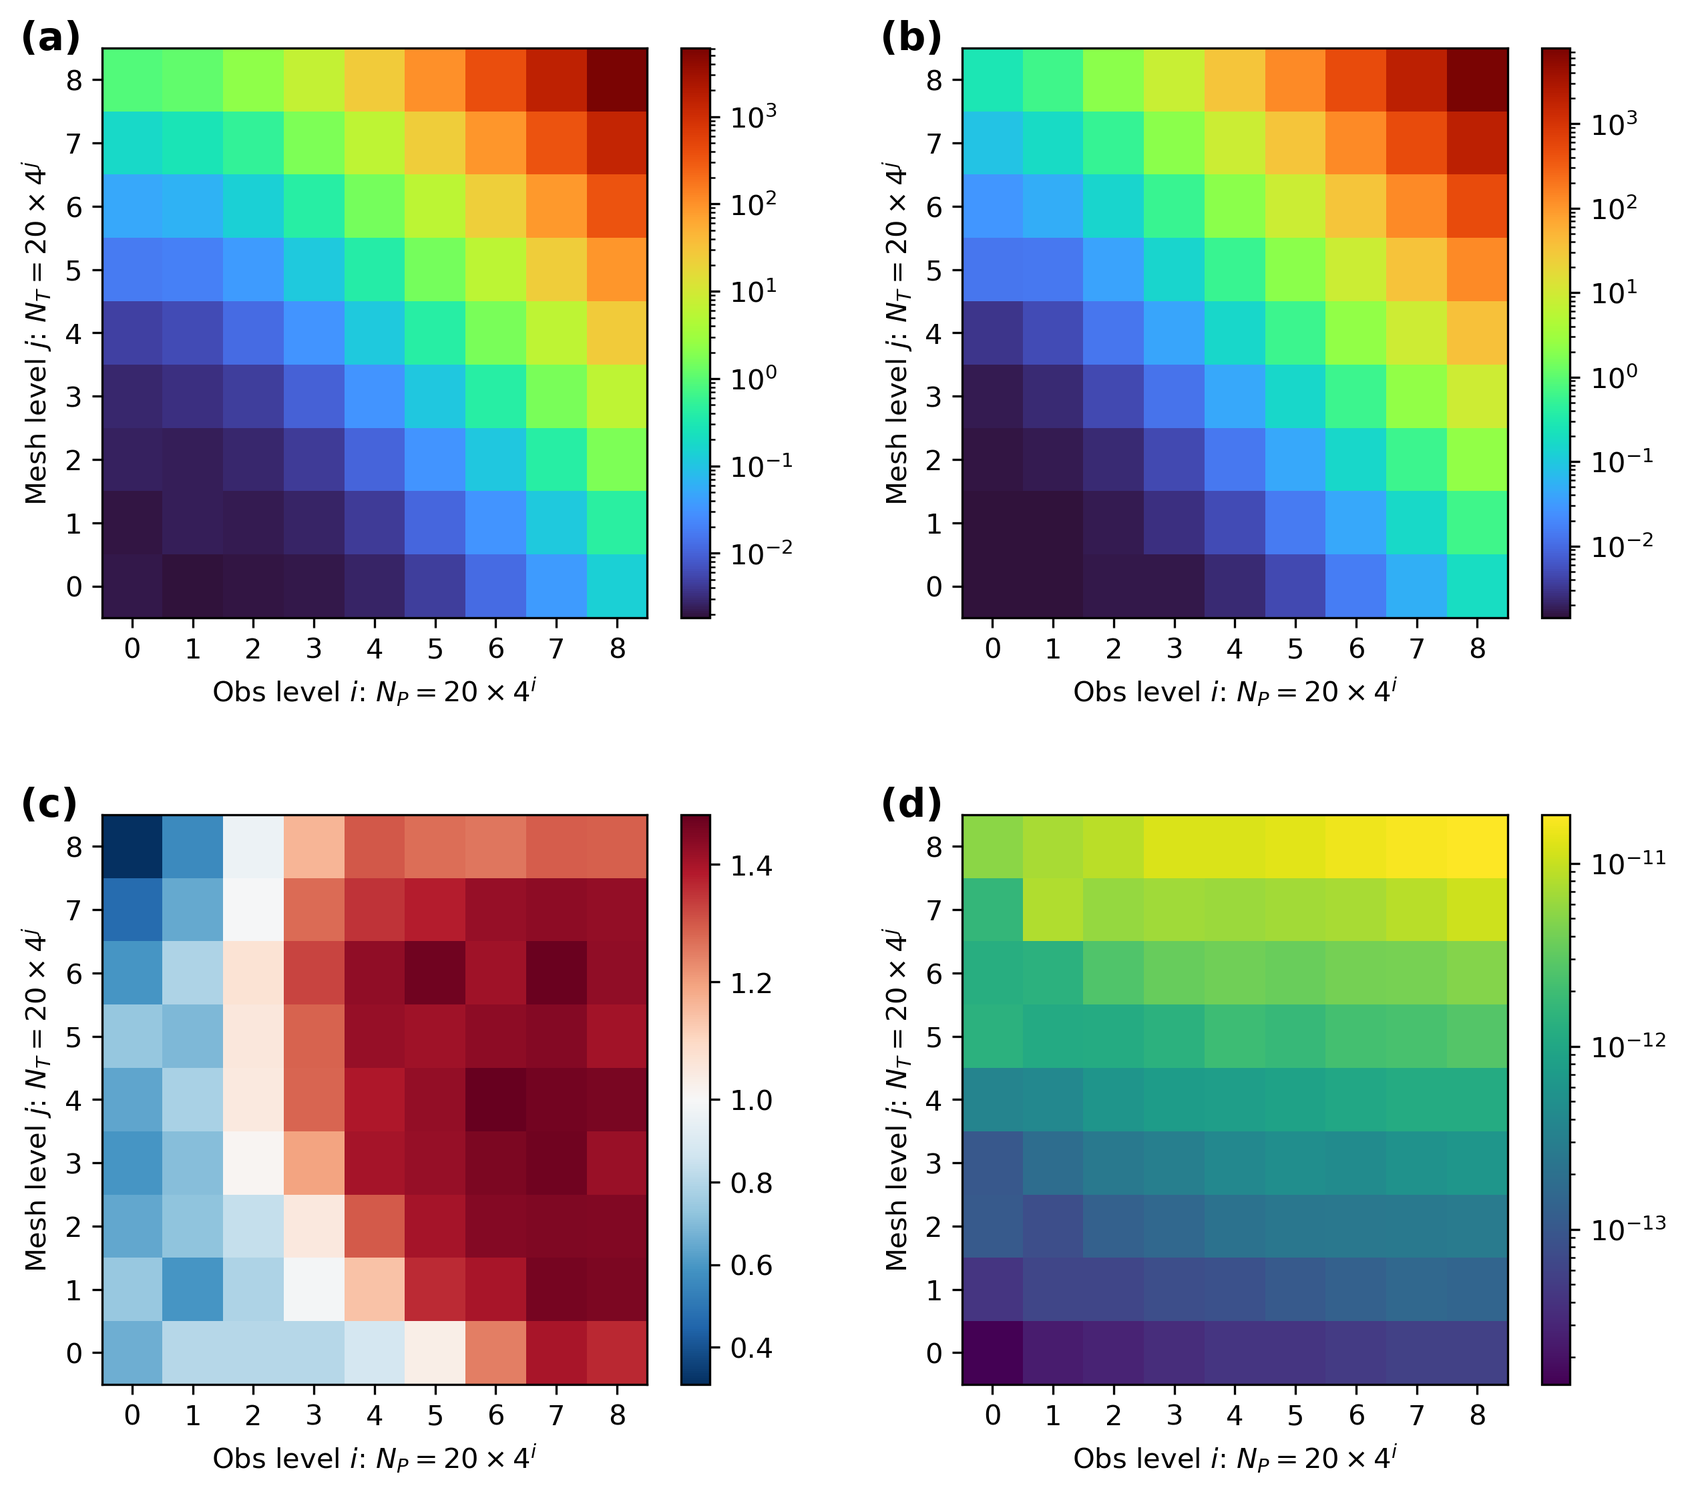
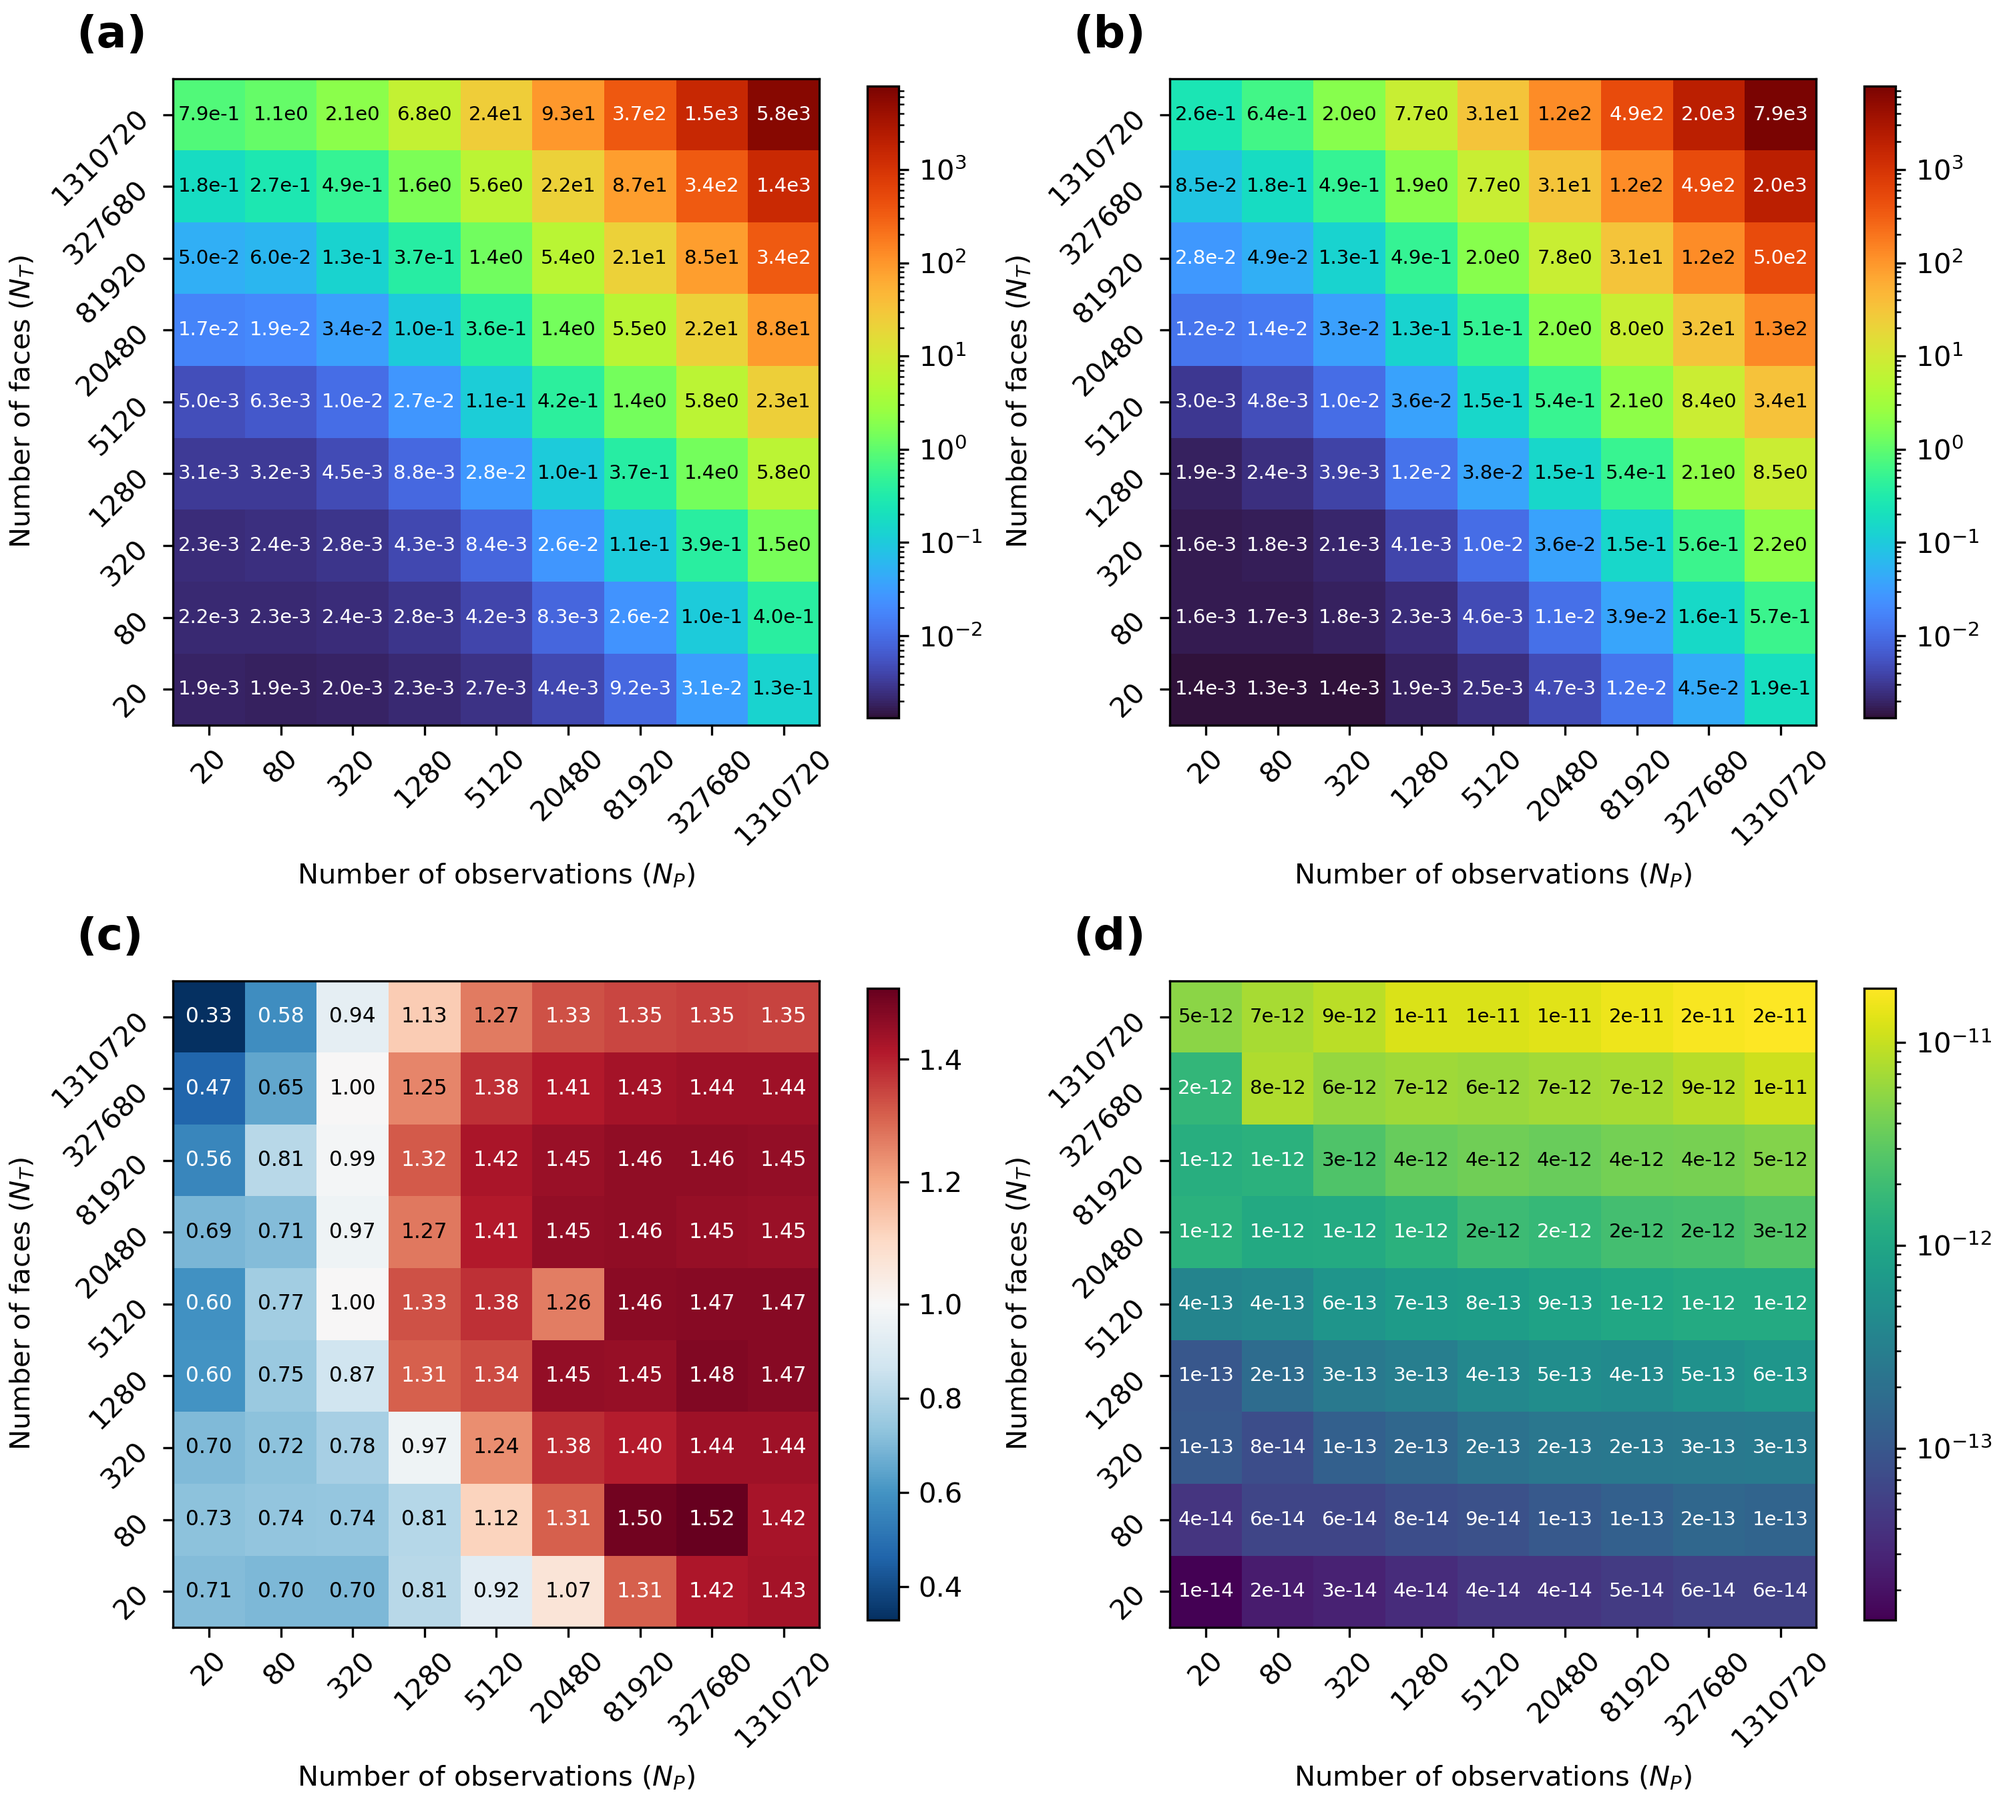
LW_1003

diff --git a/ex_Benchmark_WerSch_v1v2.py b/ex_Benchmark_WerSch_v1v2.py
@@ -123,63 +123,69 @@ print_table(f"Max Abs Diff Tzz (Eotvos), with Ref. std {np.std(Tzz1):.2f} Eotvos
             MAD_Tzz, fmt='8.2e')
 # %%
 # # ! Plotting
-fig, axs = plt.subplots(2, 2, figsize=(9, 8))
+# ------------------------------------------------------------------
+# Helpers
+# ------------------------------------------------------------------
+def sci(v, sig=1):
+    """Compact scientific notation: 2.2e-3 instead of 2.2e-03."""
+    m, e = f"{v:.{sig}e}".split("e")
+    return f"{m}e{int(e)}"
 
-# Time v1
-X, Y = np.meshgrid(NSUBs, NSUBs)
-im1 = axs[0,0].pcolormesh(X, Y, tc_v1, 
-                          shading='nearest',
-                          cmap='turbo', 
-                          norm=LogNorm())
-axs[0,0].set_xlabel(r'Obs level $i$: $N_P = 20 \times 4^{i}$')
-axs[0,0].set_ylabel(r'Mesh level $j$: $N_T = 20 \times 4^{j}$')
-axs[0,0].set_xticks(NSUBs)
-axs[0,0].set_yticks(NSUBs)
-plt.colorbar(im1, ax=axs[0,0])
+def cell_text_color(cmap, norm, v):
+    """White digits on dark cells, black digits on bright cells."""
+    r, g, b, _ = cmap(norm(v))
+    luminance = 0.299 * r + 0.587 * g + 0.114 * b
+    return 'white' if luminance < 0.55 else 'black'
 
-# Time v2
-im2 = axs[0,1].pcolormesh(X, Y, tc_v2, 
-                          shading='nearest',
-                          cmap='turbo', 
-                          norm=LogNorm())
-axs[0,1].set_xlabel(r'Obs level $i$: $N_P = 20 \times 4^{i}$')
-axs[0,1].set_ylabel(r'Mesh level $j$: $N_T = 20 \times 4^{j}$')
-axs[0,1].set_xticks(NSUBs)
-axs[0,1].set_yticks(NSUBs)
-plt.colorbar(im2, ax=axs[0,1])
+def annotate(ax, data, cmap, norm, fmt, fontsize):
+    for j in range(data.shape[0]):
+        for i in range(data.shape[1]):
+            ax.text(i, j, fmt(data[j, i]), ha='center', va='center',
+                    fontsize=fontsize,
+                    color=cell_text_color(cmap, norm, data[j, i]))
 
-# Ratio t2/t1
+# ------------------------------------------------------------------
+# Panel configuration: (data, cmaps, norm, fmt, fontsize, letter)
+# ------------------------------------------------------------------
+cmap_turbo   = plt.get_cmap('turbo')
+cmap_rdbu    = plt.get_cmap('RdBu_r')
+cmap_viridis = plt.get_cmap('viridis')
+
 ratio = tc_v2 / tc_v1
-vmin, vmax = np.min(ratio), np.max(ratio)
-norm_ratio = TwoSlopeNorm(vmin=vmin, vcenter=1, vmax=vmax)
-im3 = axs[1,0].pcolormesh(X, Y, ratio, 
-                          shading='nearest',
-                          cmap='RdBu_r', 
-                          norm=norm_ratio)
-axs[1,0].set_xlabel(r'Obs level $i$: $N_P = 20 \times 4^{i}$')
-axs[1,0].set_ylabel(r'Mesh level $j$: $N_T = 20 \times 4^{j}$')
-axs[1,0].set_xticks(NSUBs)
-axs[1,0].set_yticks(NSUBs)
-plt.colorbar(im3, ax=axs[1,0])
+norm_time  = LogNorm(vmin=min(tc_v1.min(), tc_v2.min()),
+                     vmax=max(tc_v1.max(), tc_v2.max()))
+norm_ratio = TwoSlopeNorm(vmin=ratio.min(), vcenter=1, vmax=ratio.max())
+norm_diff  = LogNorm(vmin=MAD_gz.min(), vmax=MAD_gz.max())
 
-# Max abs diff gz
-im4 = axs[1,1].pcolormesh(X, Y, MAD_gz, 
-                          shading='nearest',
-                          cmap='viridis', 
-                          norm=LogNorm())
-axs[1,1].set_xlabel(r'Obs level $i$: $N_P = 20 \times 4^{i}$')
-axs[1,1].set_ylabel(r'Mesh level $j$: $N_T = 20 \times 4^{j}$')
-axs[1,1].set_xticks(NSUBs)
-axs[1,1].set_yticks(NSUBs)
-plt.colorbar(im4, ax=axs[1,1])
+panels = [
+    (tc_v1,  cmap_turbo,   norm_time,  lambda v: sci(v, 1), 7.0, '(a)'),
+    (tc_v2,  cmap_turbo,   norm_time,  lambda v: sci(v, 1), 7.0, '(b)'),
+    (ratio,  cmap_rdbu,    norm_ratio, lambda v: f"{v:.2f}", 7.5, '(c)'),
+    (MAD_gz, cmap_viridis, norm_diff,  lambda v: sci(v, 0), 7.0, '(d)'),
+]
 
-[ax.text(-0.15, 1.05, label, transform=ax.transAxes, 
-         fontsize=14, fontweight='bold', va='top') 
-         for ax, label in zip(axs.flat, ['(a)', '(b)', '(c)', '(d)'])]
+# ------------------------------------------------------------------
+# Figure
+# ------------------------------------------------------------------
+fig, axes = plt.subplots(2, 2, figsize=(10, 9), constrained_layout=True)
 
-plt.tight_layout(pad=2.5)
-plt.savefig(f"Benchmark_WerSch_v1v2_nsub{nsub_max}.png", dpi=300, bbox_inches='tight')
-# plt.show()
+for ax, (data, cmap, norm, fmt, fs, letter) in zip(axes.flat, panels):
+    im = ax.imshow(data, origin='lower', cmap=cmap, norm=norm)
+
+    ax.set_xticks(NSUBs)
+    ax.set_yticks(NSUBs)
+    ax.set_xticklabels([f"{n:.0f}" for n in NPs], rotation=45)
+    ax.set_yticklabels([f"{n:.0f}" for n in NTs], rotation=45)
+    ax.set_xlabel(r'Number of observations ($N_P$)')
+    ax.set_ylabel(r'Number of faces ($N_T$)')
+
+    ax.text(-0.15, 1.10, letter, transform=ax.transAxes,
+            fontsize=16, fontweight='bold', ha='left', va='top')
+
+    annotate(ax, data, cmap, norm, fmt, fs)
+    fig.colorbar(im, ax=ax, shrink=0.9)
+
+plt.savefig(f"Benchmark_WerSch_v1v2_nsub{nsub_max}.png", dpi=300)
 # %% 
 # # ! End time
 print("="*80)
